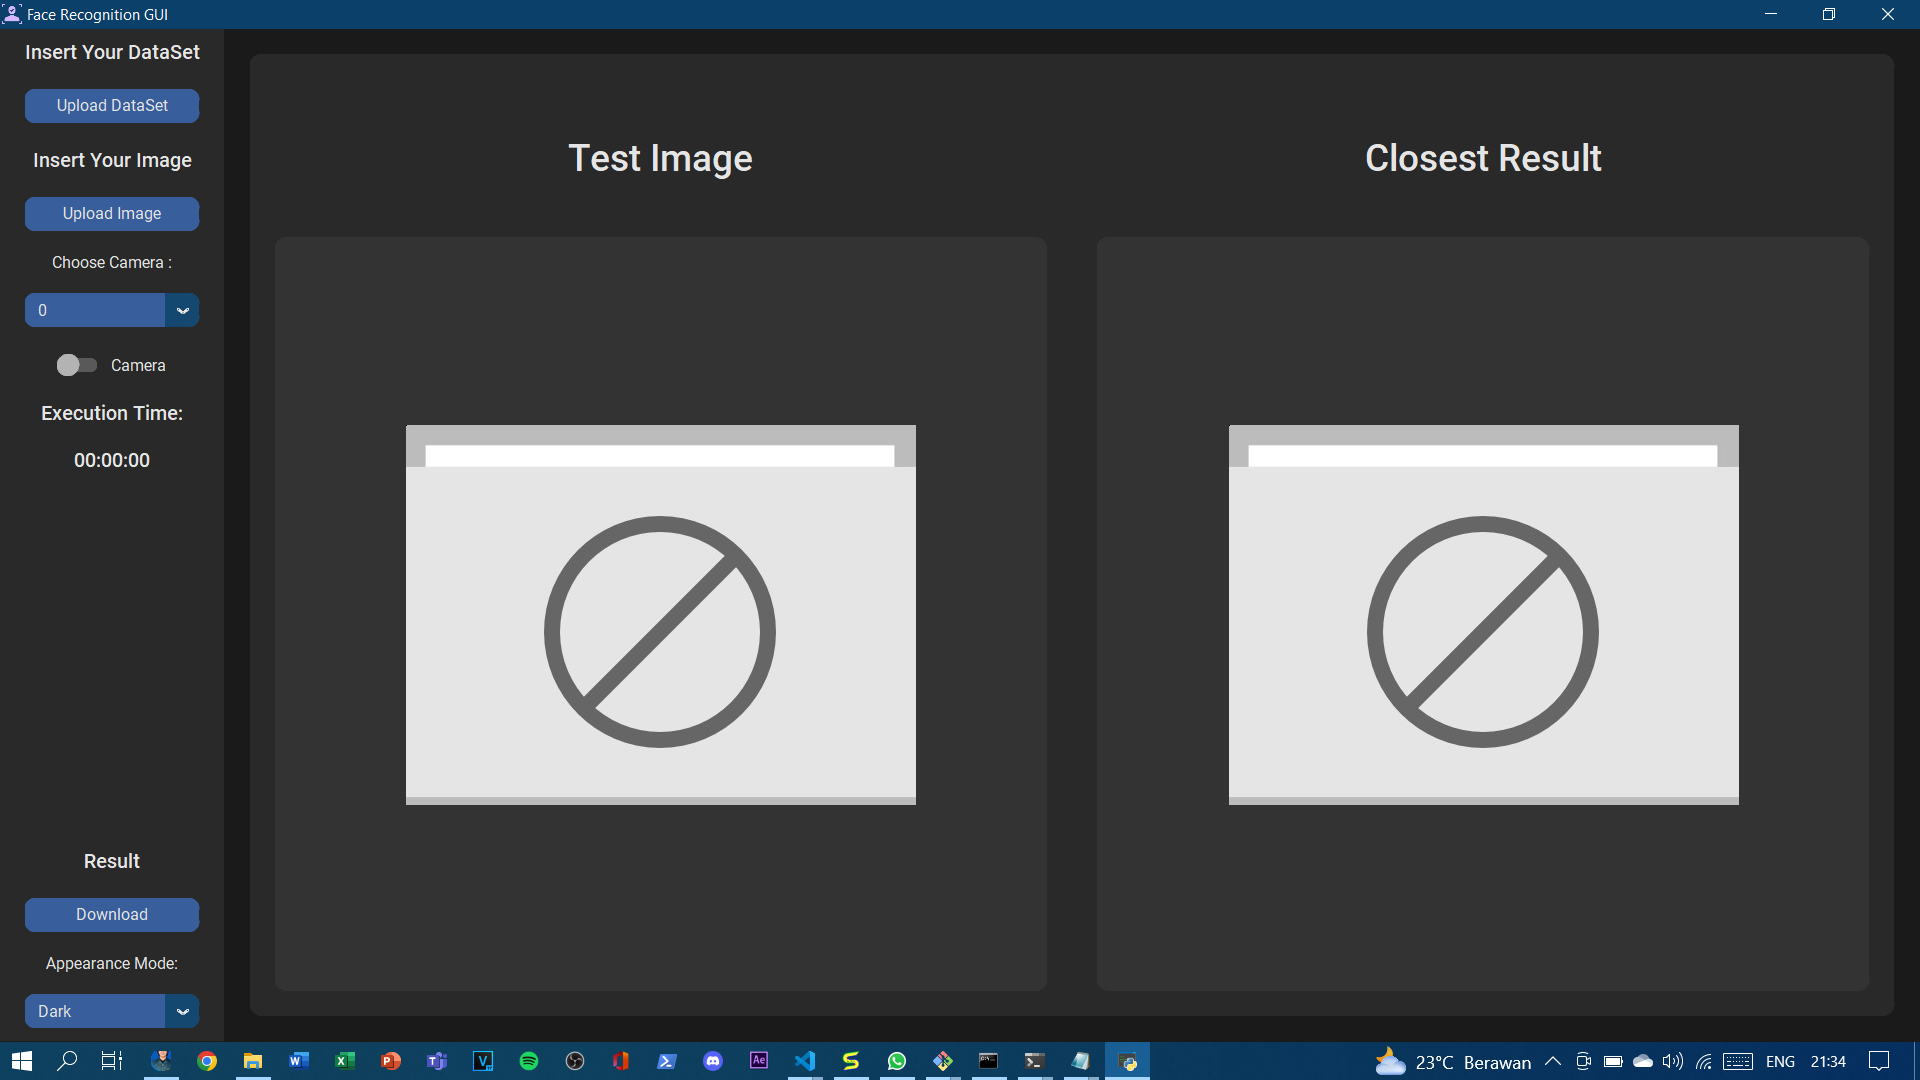
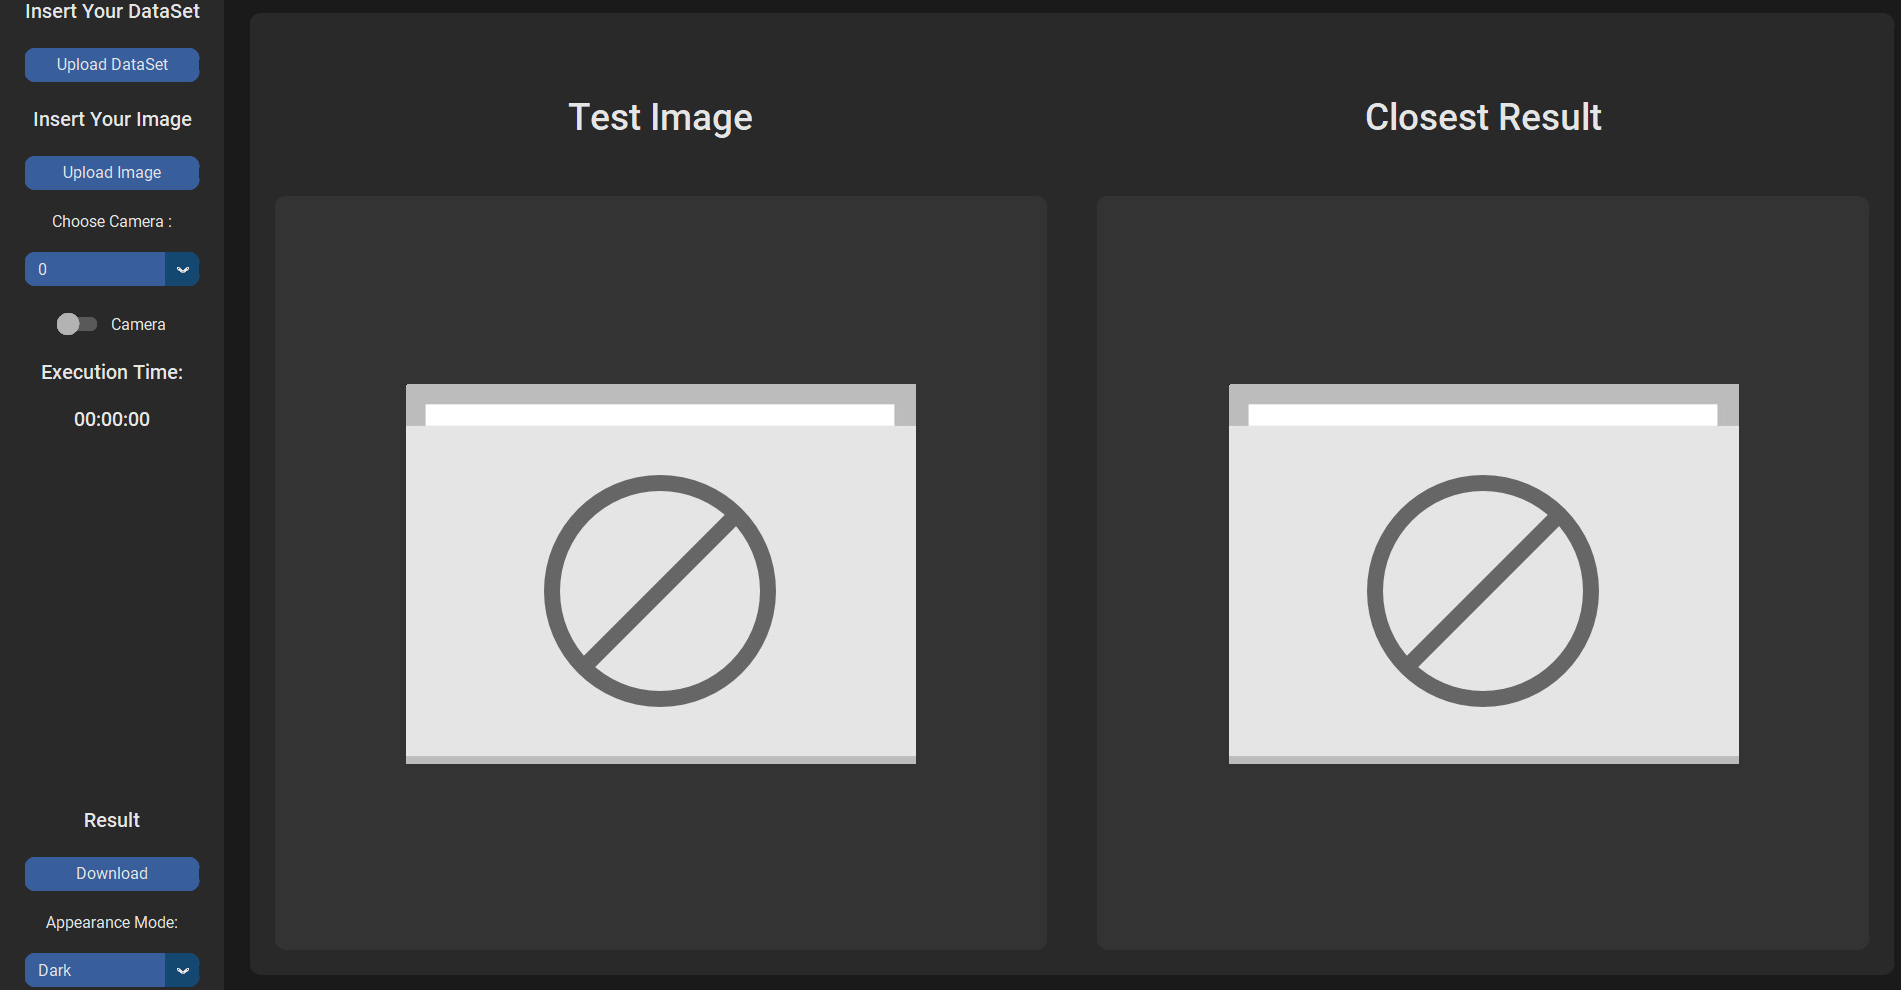
fix readme

diff --git a/README.md b/README.md
@@ -85,7 +85,7 @@ python main.py
 
 ## Screenshots
 <p align=center>
-  <img src="/image/ss/ss_1.png/">
+  <img src="/image/ss/ss_1.png/" width=500>
   <p>Figure 1. Main Menu (light mode)</p>
   <nl>
   <img src="/image/ss/ss_4.png/">
